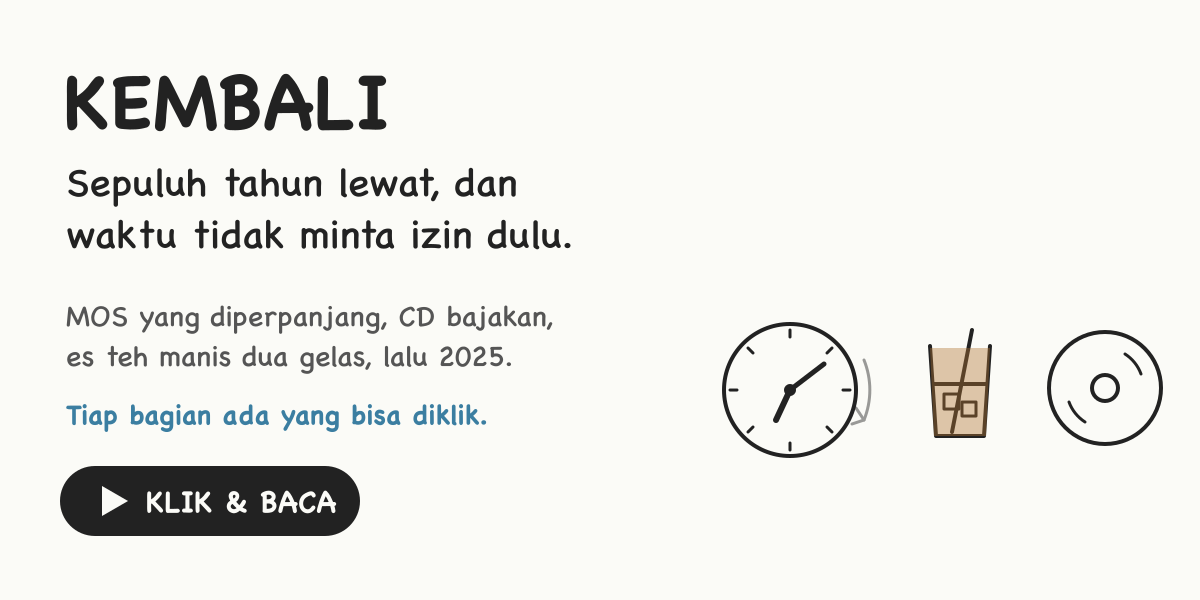
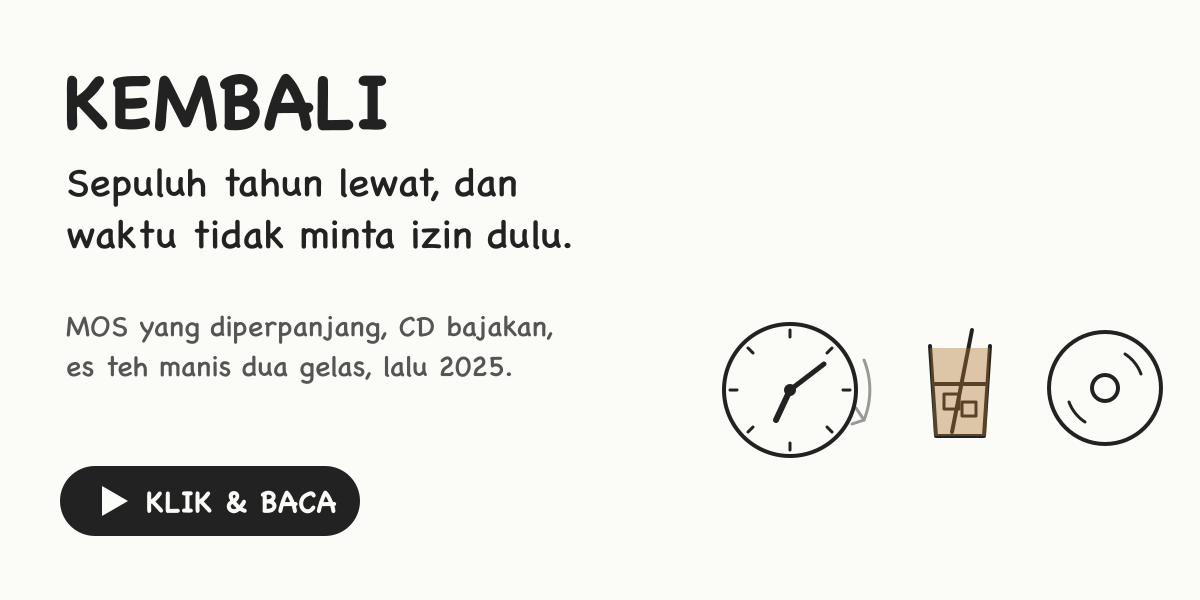
Kembali: drop the "tiap bagian bisa diklik" pitch
The teaser and poster no longer announce the interactivity; the play
button already implies it. A single quiet tip under the first doodle
replaces the per-toy "klik" captions, and it fades once you click.

Changed region(s): [[0.0308, 0.51, 0.4625, 0.63], [0.0617, 0.66, 0.4008, 0.72]]

diff --git a/_posts/2025-01-05-kembali.md b/_posts/2025-01-05-kembali.md
@@ -3,7 +3,7 @@ layout: post
 title: Kembali
 comments: true
 thumbnail: /assets/img/2025-01-05-kembali.png
-teaser: "Sepuluh tahun sejak pertama kali masuk SMA: MOS yang diperpanjang, CD bajakan yang perlu ditiup, es teh manis dua gelas, dan 2025 yang datang terlalu cepat. Tiap bagian ada yang bisa diklik."
+teaser: "Sepuluh tahun sejak pertama kali masuk SMA: MOS yang diperpanjang, CD bajakan yang perlu ditiup, es teh manis dua gelas, dan 2025 yang tiba-tiba sudah di sini."
 ---
 
 <style>
@@ -661,14 +661,19 @@ Asif, _signing off_. 😊
   var mounted = [];
   var nodes = document.querySelectorAll('.toy[data-toy]');
   for (var i=0;i<nodes.length;i++){
-    (function(el){
+    (function(el, first){
       var def = TOYS[el.getAttribute('data-toy')];
       if (!def) return;
       var h = parseInt(el.getAttribute('data-h') || '180', 10);
       var cv = document.createElement('canvas');
-      var hint = document.createElement('div');
-      hint.className = 'hint'; hint.textContent = '👆 klik';
-      el.appendChild(cv); el.appendChild(hint);
+      el.appendChild(cv);
+      // only the first one says anything; after that you already know
+      if (first){
+        var hint = document.createElement('div');
+        hint.className = 'hint';
+        hint.textContent = 'Tip: doodle di tulisan ini bisa diklik.';
+        el.appendChild(hint);
+      }
       var toy = { el:el, cv:cv, ctx:cv.getContext('2d'), def:def, h:h, s:def.init() };
       function size(){
         var w = Math.max(240, Math.min(460, el.clientWidth || 460));
@@ -683,7 +688,7 @@ Asif, _signing off_. 😊
       cv.addEventListener('mousedown', hit);
       cv.addEventListener('touchstart', hit, {passive:false});
       mounted.push(toy);
-    })(nodes[i]);
+    })(nodes[i], i === 0);
   }
 
   window.addEventListener('resize', function(){
@@ -715,8 +720,7 @@ Asif, _signing off_. 😊
     var m = 0;
     var tag = document.createElement('div'); tag.className = 'tag';
     var sen = document.createElement('div'); sen.className = 'sentence';
-    var hint = document.createElement('div'); hint.className = 'hint'; hint.textContent = '👆 klik untuk ganti mode';
-    swap.appendChild(tag); swap.appendChild(sen); swap.appendChild(hint);
+    swap.appendChild(tag); swap.appendChild(sen);
     function render(){ tag.textContent = modes[m].tag; sen.textContent = modes[m].text; }
     render();
     swap.addEventListener('click', function(){ m = (m+1) % modes.length; render(); });
